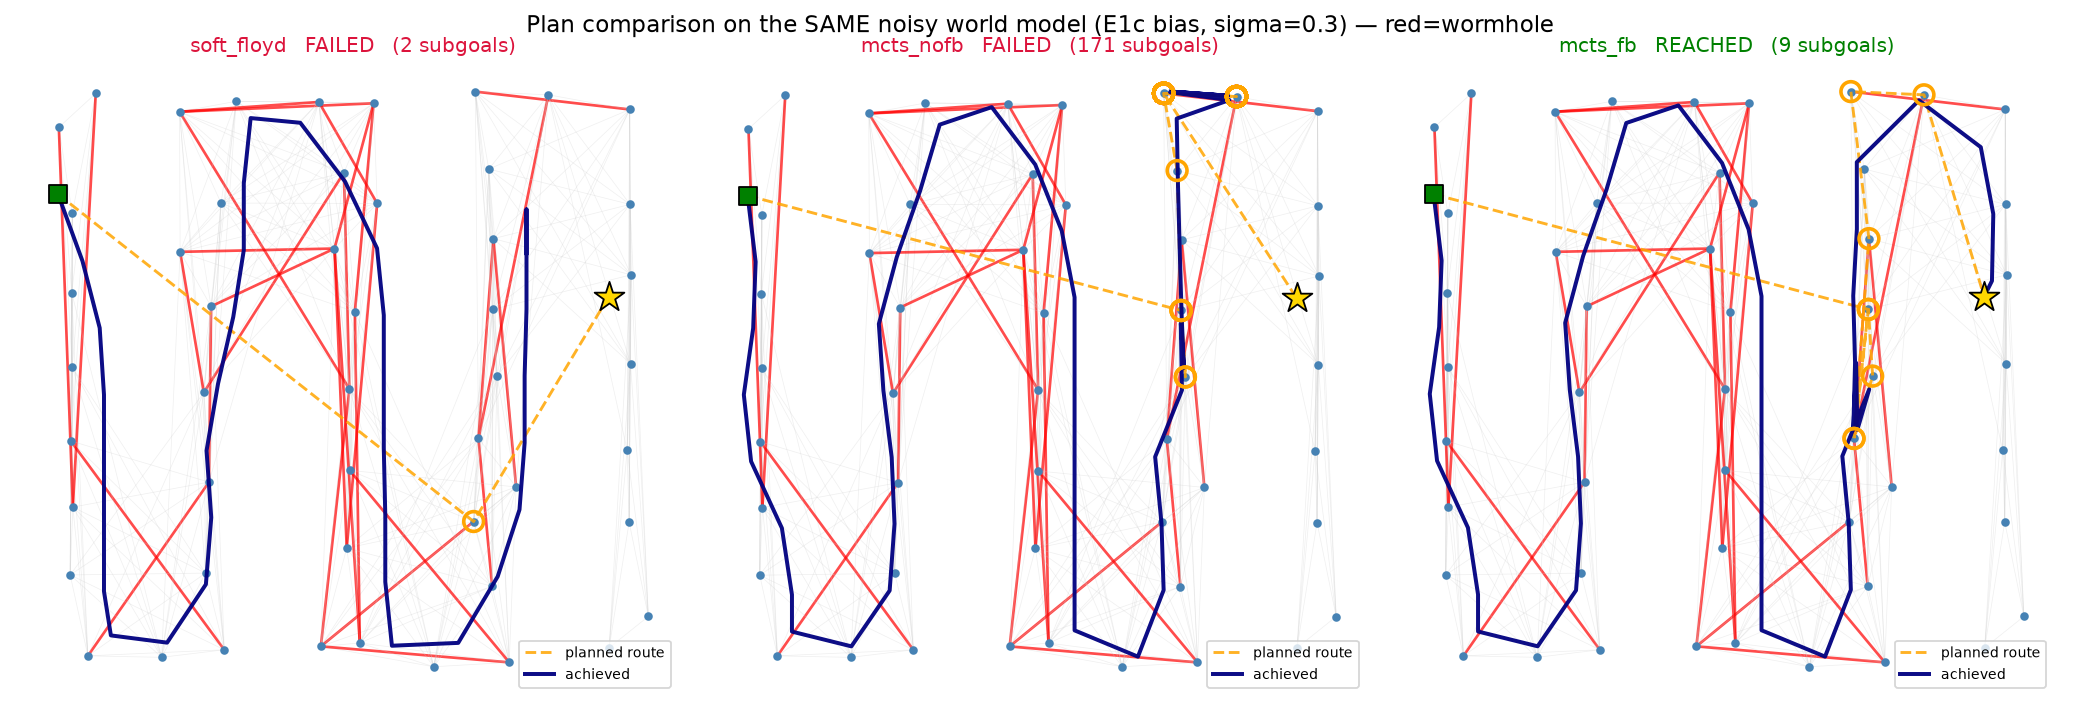
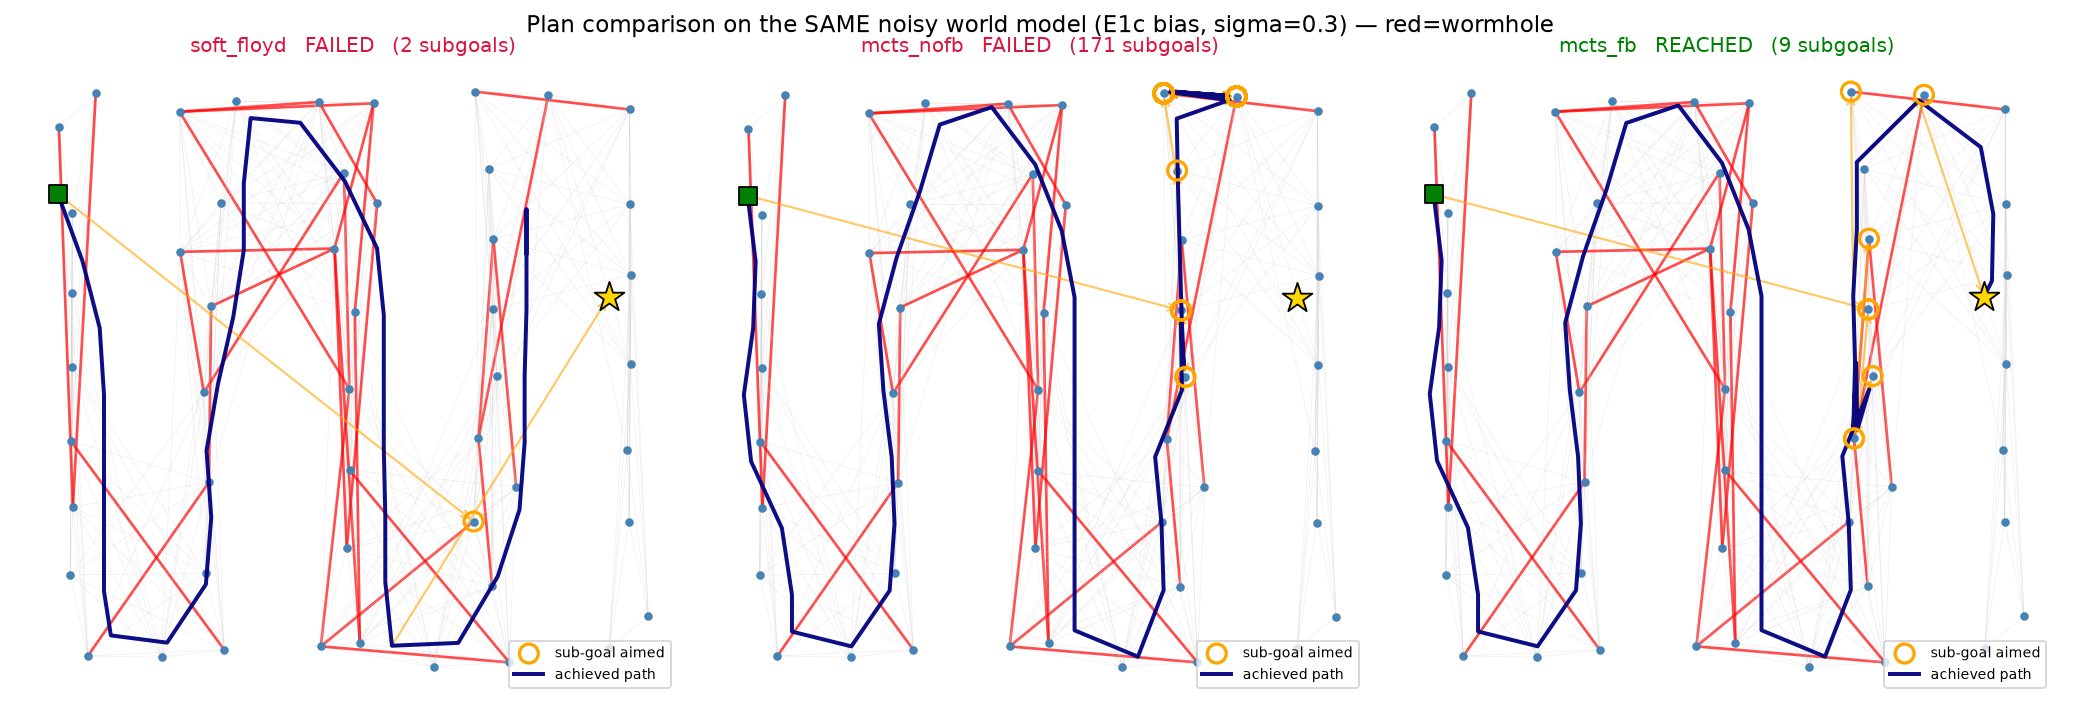
exp: viz_plans faithful aim-arrows (reactive planning, not a fake route)
The previous dashed start->sg1->sg2->goal polyline implied a precomputed route,
but these planners are reactive (pick the next sub-goal from the CURRENT position
each re-plan). Replace it with per-replan aim arrows: from the agent's actual
position when it (re)chose a sub-goal to that sub-goal (capped at 20 so mcts_nofb's
thrashing stays readable). Now soft_floyd visibly aims at a far wormhole landmark
from the start while its achieved path diverges -> the failure is legible.

diff --git a/scripts/viz_plans.py b/scripts/viz_plans.py
@@ -32,19 +32,21 @@ def run_episode(tr, planner, es, max_steps):
     e.rng = np.random.default_rng(es); obs = e.reset()   # seed BEFORE reset (start/goal)
     goal = obs["desired_goal"].astype(np.float32)
     planner.reset(goal)
-    traj, subs, succ = [obs["achieved_goal"].copy()], [], 0
+    traj, subs, aims, succ = [obs["achieved_goal"].copy()], [], [], 0
     for _ in range(max_steps):
+        pos = np.asarray(obs["achieved_goal"]).copy()      # position when the subgoal is (re)chosen
         a = planner.act(obs["observation"], achieved_goal=obs["achieved_goal"])
         obs, r, d, info = e.step(a)
         traj.append(obs["achieved_goal"].copy())
         si = getattr(planner, "subg_idx", None)
         if si is not None and (not subs or subs[-1] != si):
             subs.append(int(si))
+            aims.append((pos, int(si)))                    # faithful "aim" vector at re-plan
         if float(info.get("is_success", r == 0.0)) > 0:   # PointMaze: reward 0 = reached
             succ = 1; break
         if d:
             break
-    return np.array(traj), subs, succ, goal, np.asarray(traj[0])
+    return np.array(traj), subs, succ, goal, np.asarray(traj[0]), aims
 
 
 def main():
@@ -115,15 +117,18 @@ def main():
                     ax.plot(xy[[i, j], 0], xy[[i, j], 1], color=("red" if red else "0.8"),
                             lw=(1.5 if red else 0.4), alpha=(0.7 if red else 0.3), zorder=1)
         ax.scatter(xy[:, 0], xy[:, 1], s=14, c="steelblue", zorder=3)
-        # planned route: start -> chosen subgoals -> goal (dashed)
-        route = [start] + [xy[i] for i in subs if i < N] + [goal]
-        route = np.array(route)
-        ax.plot(route[:, 0], route[:, 1], "--", color="orange", lw=1.6, alpha=0.85, zorder=4,
-                label="planned route")
+        # faithful "aim" arrows: from the agent's position at each re-plan -> the
+        # sub-goal it then committed to (reactive planning, NOT a precomputed route)
+        aims = runs[k][5]
+        for idx, (pos, si) in enumerate(aims[:20]):        # cap arrows so thrashing stays readable
+            tgt = xy[si] if si < N else goal
+            ax.annotate("", xy=(tgt[0], tgt[1]), xytext=(pos[0], pos[1]),
+                        arrowprops=dict(arrowstyle="->", color="orange", lw=1.2, alpha=0.6), zorder=4)
         ax.scatter([xy[i, 0] for i in subs if i < N], [xy[i, 1] for i in subs if i < N],
-                   s=120, facecolors="none", edgecolors="orange", linewidths=2, zorder=6)
+                   s=110, facecolors="none", edgecolors="orange", linewidths=1.8, zorder=6,
+                   label="sub-goal aimed")
         ax.plot(traj[:, 0], traj[:, 1], "-", color="navy", lw=2.2, alpha=0.95, zorder=5,
-                label="achieved")
+                label="achieved path")
         ax.scatter([start[0]], [start[1]], marker="s", s=90, c="green", edgecolors="k", zorder=7)
         ax.scatter([goal[0]], [goal[1]], marker="*", s=300, c="gold", edgecolors="k", zorder=7)
         ax.set_title(f"{k}   {'REACHED' if succ else 'FAILED'}   ({len(subs)} subgoals)",
